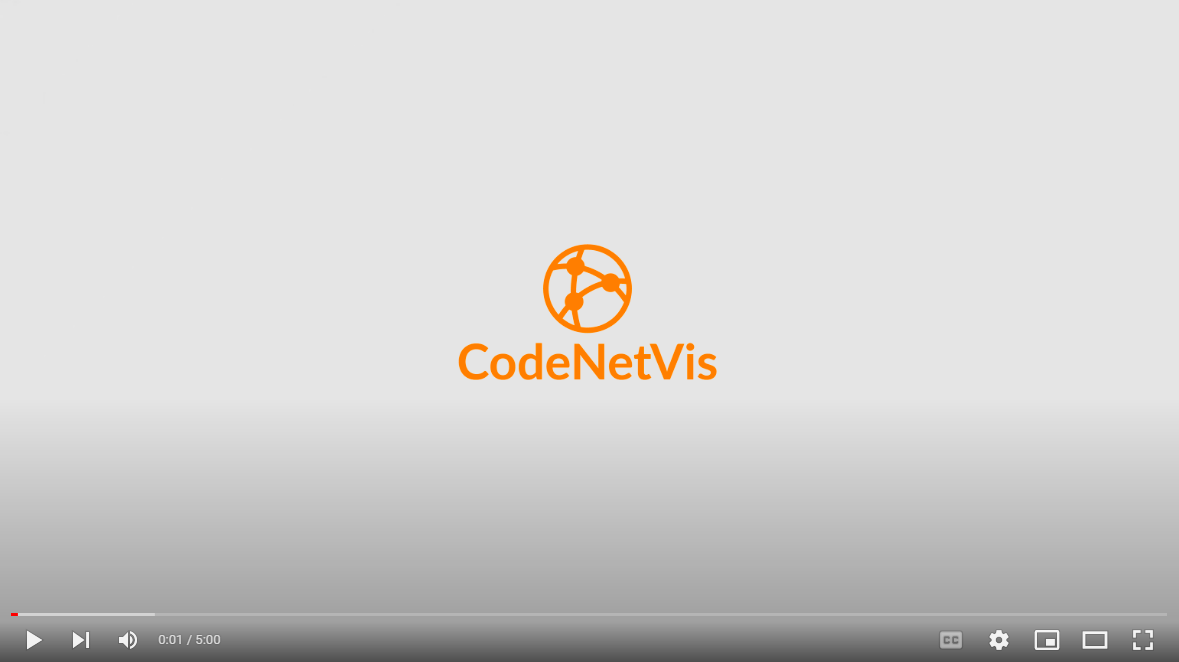
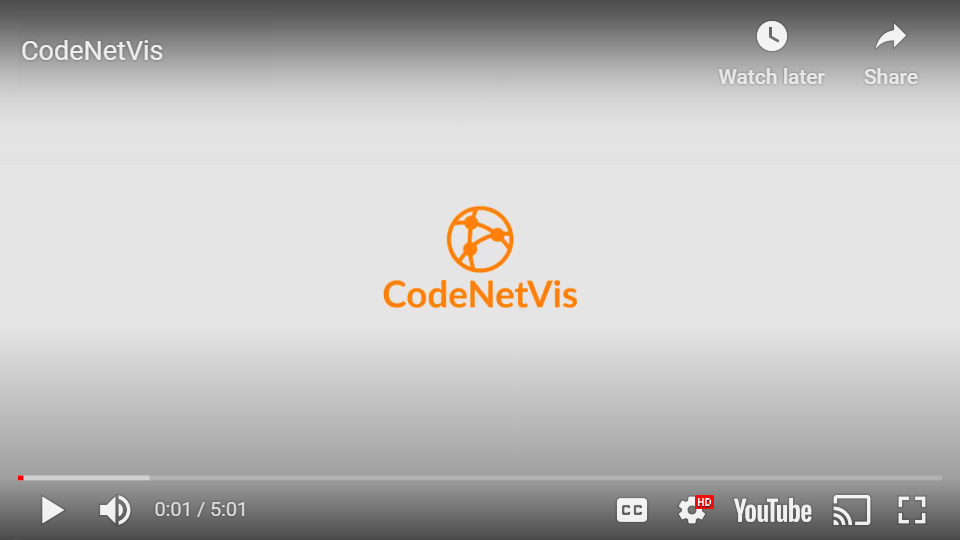
Reverted to image as embeds do not work

Changed region(s): [[0.0, 0.0, 1.0, 0.1778], [0.0, 0.8593, 1.0, 1.0], [0.375, 0.3556, 0.625, 0.5926]]

diff --git a/README.md b/README.md
@@ -17,7 +17,7 @@ visualization of the dependencies around the poles.
 
 ### Introductory Video
 
-<iframe width="800" height="450" src="https://www.youtube.com/embed/aC_zvUjOr8A?rel=0" title="YouTube video player" frameborder="0" allow="accelerometer; autoplay; clipboard-write; encrypted-media; gyroscope; picture-in-picture" allowfullscreen></iframe>
+[![Introduction to CodeNetVis](youtube-video.png)](https://youtu.be/aC_zvUjOr8A?t=0s "Introduction to CodeNetVis")
 
 ### Quick Preview
 
